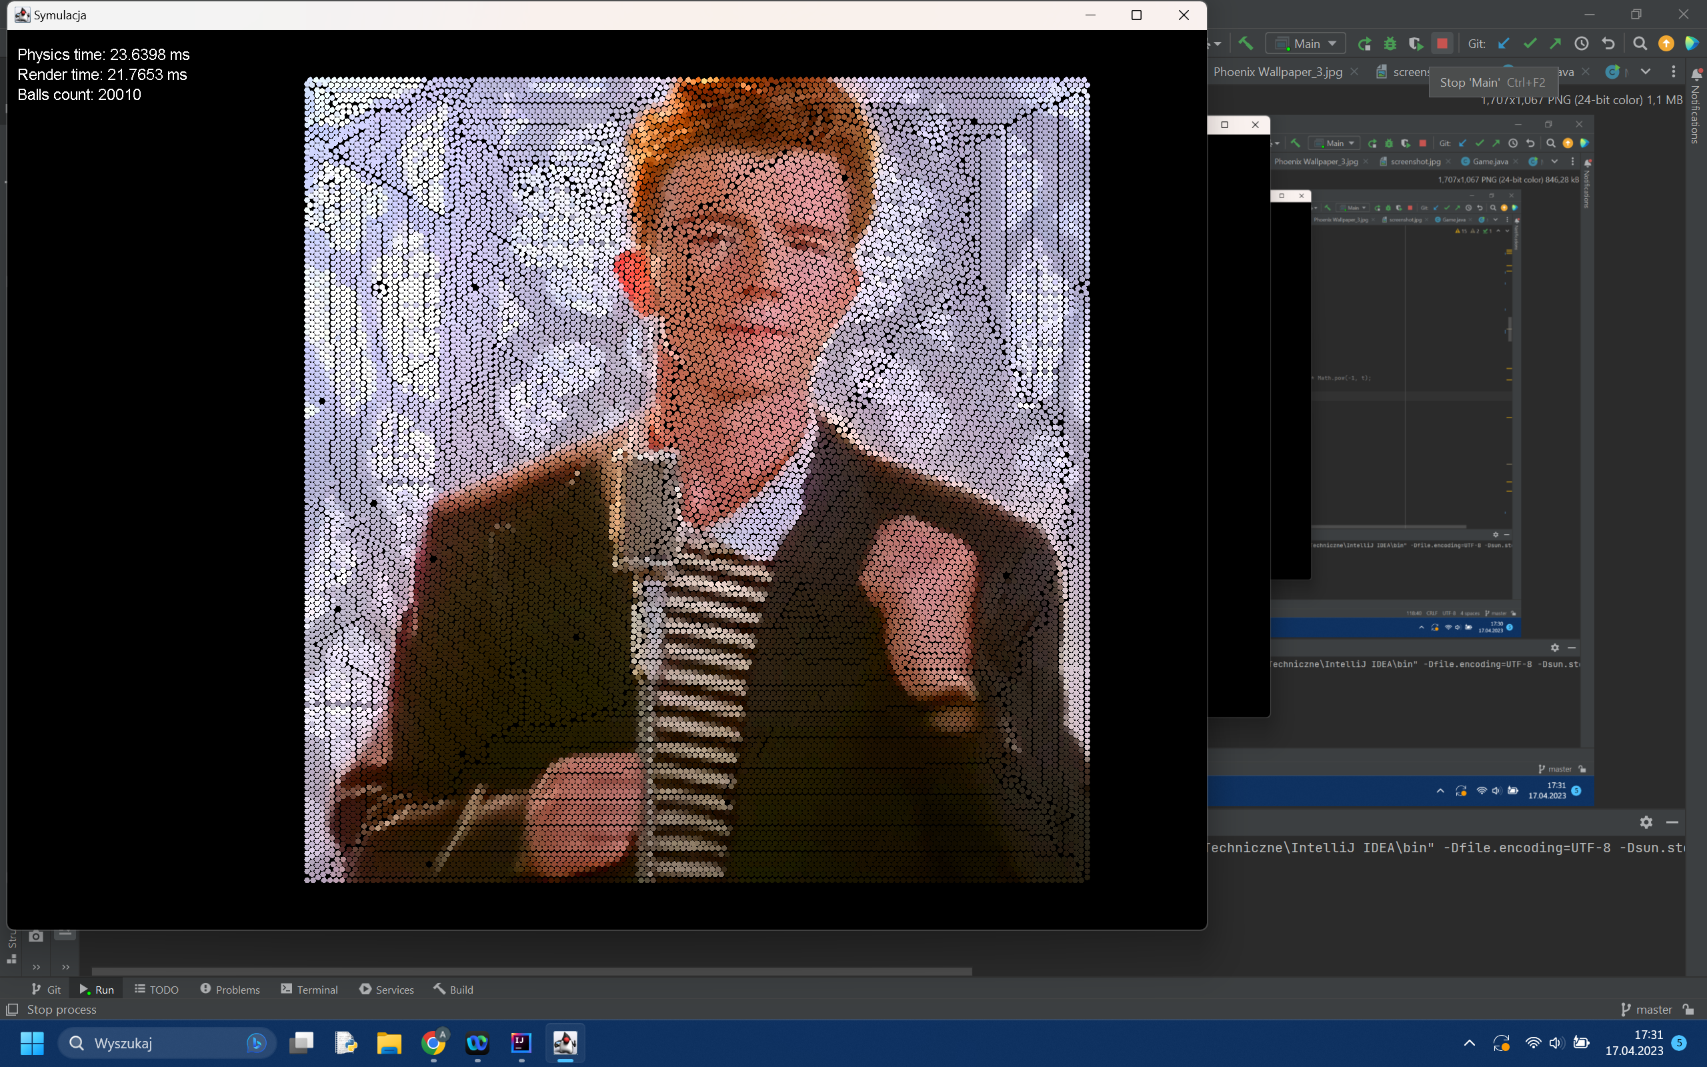
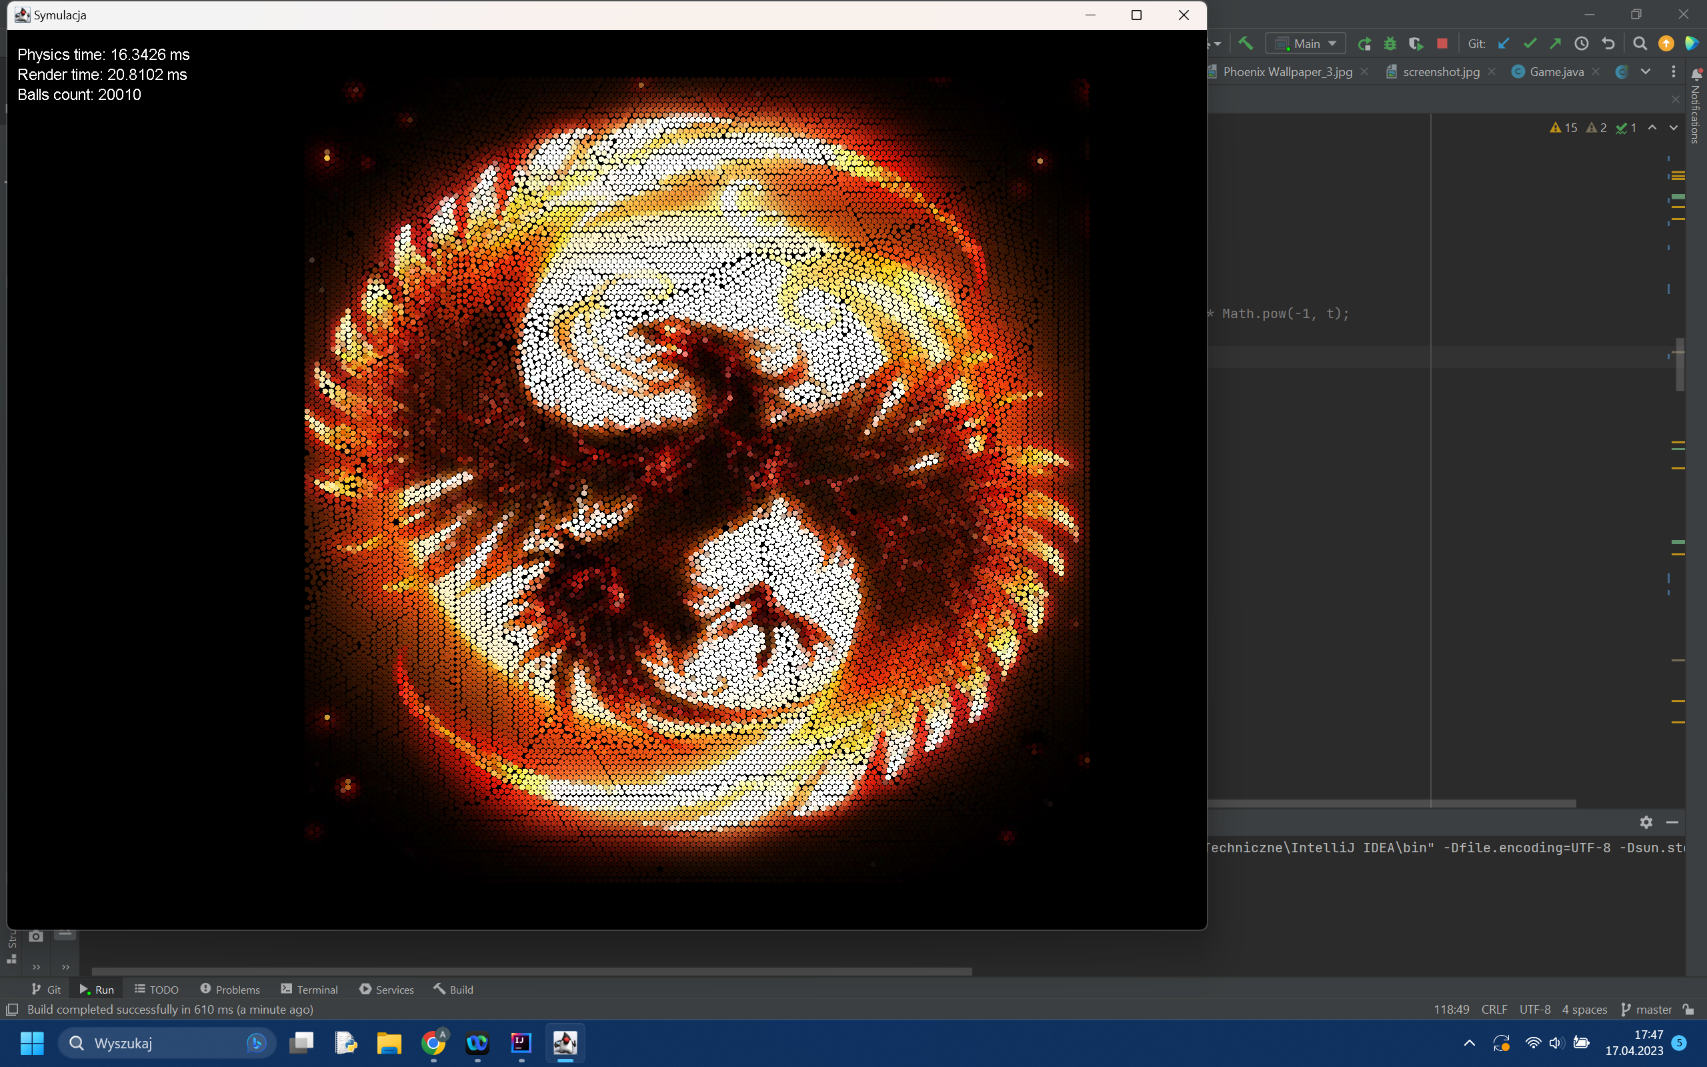
Little tests

diff --git a/src/main/GamePanel.java b/src/main/GamePanel.java
@@ -8,7 +8,7 @@ import java.util.concurrent.ExecutorService;
 import java.util.concurrent.Executors;
 import java.util.concurrent.TimeUnit;
 
-import addons.CollisionList;
+import addons.FixedArrayList;
 import addons.ImageController;
 import addons.TimeCounter;
 import objectsToDraw.Circle;
@@ -17,7 +17,7 @@ public class GamePanel extends JPanel {
     private double lastTimeOfBallSpawn;
     private boolean canCreateBall;
     private final double ballTimeDelay;
-    private final short SUBSTEPS = 8;
+    private final short SUBSTEPS = 6;
     private final double startGameTime;
     private static int MAX_BALLS = 20000;
     private int ballCount = 0;
@@ -31,7 +31,7 @@ public class GamePanel extends JPanel {
     private final int cellSize = 6;
     private final int cellWidth = (SIMULATION_X / cellSize) + 1;
     private final int cellHeight = (SIMULATION_Y / cellSize) + 1;
-    private CollisionList [][] collisionGrid;
+    private FixedArrayList[][] collisionGrid;
 
 //    private CircleConstraints circleConstraint;
 
@@ -44,7 +44,7 @@ public class GamePanel extends JPanel {
 
     private Game game;
 
-    int threadCount = 8;
+    int threadCount = 4;
     int sliceCount = threadCount * 2;
     int sliceSize = (cellWidth/ sliceCount) * cellHeight;
     public GamePanel(Game game){
@@ -57,7 +57,7 @@ public class GamePanel extends JPanel {
         ballTimeDelay = 0.02;
         startGameTime = System.nanoTime();
         try {
-            imageController = new ImageController("res/rick wallpaper.jpg", "color_positions.txt");
+            imageController = new ImageController("res/Phoenix Wallpaper.jpg", "color_positions.txt");
         }
         catch(Exception e){
             e.printStackTrace();
@@ -77,10 +77,10 @@ public class GamePanel extends JPanel {
     }
 
     private void start(){
-        collisionGrid = new CollisionList[cellHeight][cellWidth];
+        collisionGrid = new FixedArrayList[cellHeight][cellWidth];
         for (int i = 0; i < cellHeight; i++)
             for (int j = 0; j < cellWidth; j++)
-                collisionGrid[i][j] = new CollisionList();
+                collisionGrid[i][j] = new FixedArrayList();
         imageController.read_file(listOfColors);
     }
 
@@ -115,8 +115,8 @@ public class GamePanel extends JPanel {
     private void create_ball(int t) {
 //        double x = (double)GAME_WIDTH / 2 + circleConstraint.getRadius() * Math.cos( 0.3) * Math.pow(-1, t);
 //        double y = (double)GAME_HEIGHT/ 2 + circleConstraint.getRadius()  * Math.sin( 2);
-        double x = (double)150 + (t * 29 % 600);
-        double y = 50;
+        double x = (double)150 + (t * 29 % 150);
+        double y = 50 + (t % 5) * 5;
         double randRadius = 3;
         Color color;
         try {color = listOfColors.get(t);}
@@ -234,16 +234,16 @@ public class GamePanel extends JPanel {
 
     private void process_cell(int i, int j){
 
-        CollisionList cell = collisionGrid[i][j];
+        FixedArrayList cell = collisionGrid[i][j];
         for (int di = -1; di <= 1; di++) {
             for (int dj = -1; dj <= 1; dj++) {
-                CollisionList otherCell = collisionGrid[i + di][j + dj];
+                FixedArrayList otherCell = collisionGrid[i + di][j + dj];
                 solve_collision_between_cells(cell, otherCell);
             }
         }
     }
 
-    public void solve_collision_between_cells(CollisionList cell1, CollisionList cell2) {
+    public void solve_collision_between_cells(FixedArrayList cell1, FixedArrayList cell2) {
 
         double normalized_x;
         double normalized_y;

diff --git a/src/addons/FixedArrayList.java b/src/addons/FixedArrayList.java
@@ -1,15 +1,14 @@
 package addons;
 
-import java.util.ArrayList;
 import java.util.Iterator;
 import java.util.function.Consumer;
 
-public class CollisionList implements Iterable<Integer>{
+public class FixedArrayList implements Iterable<Integer>{
     public int[] list;
-    public int size;
-    private final int maxIndex;
+    public short size;
+    private final short maxIndex;
 
-    public CollisionList(){
+    public FixedArrayList(){
         maxIndex = 4;
         size = 0;
         list = new int[maxIndex];

diff --git a/src/objectsToDraw/Circle.java b/src/objectsToDraw/Circle.java
@@ -44,8 +44,8 @@ public class Circle {
         x_old = x_cur;
         y_old = y_cur;
 
-        x_cur += velX + (accX - velX * 200) * dt * dt;
-        y_cur += velY + (accY - velY * 200) * dt * dt;
+        x_cur += velX + (accX - velX * 100) * dt * dt;
+        y_cur += velY + (accY - velY * 100) * dt * dt;
 
         accX = 0;
         accY = 0;
